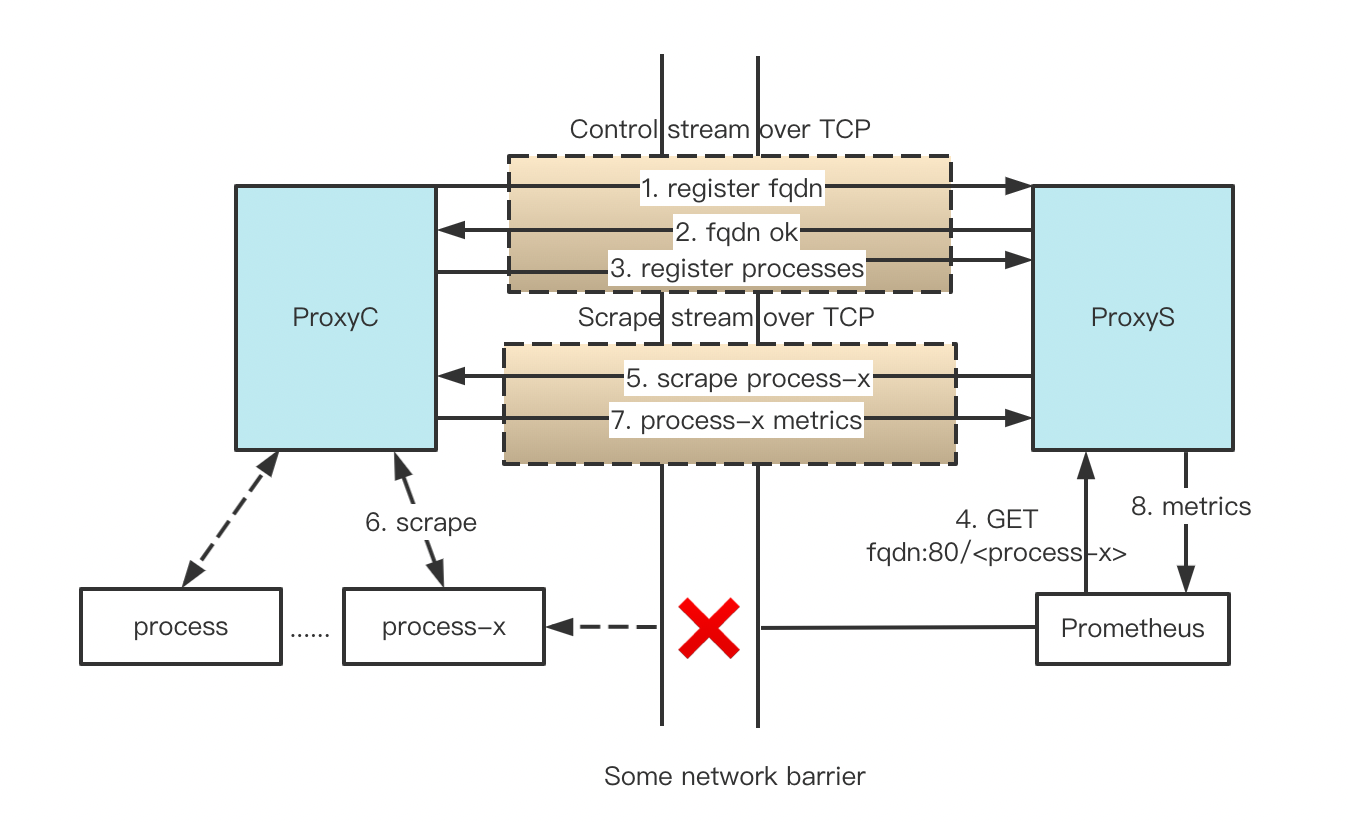
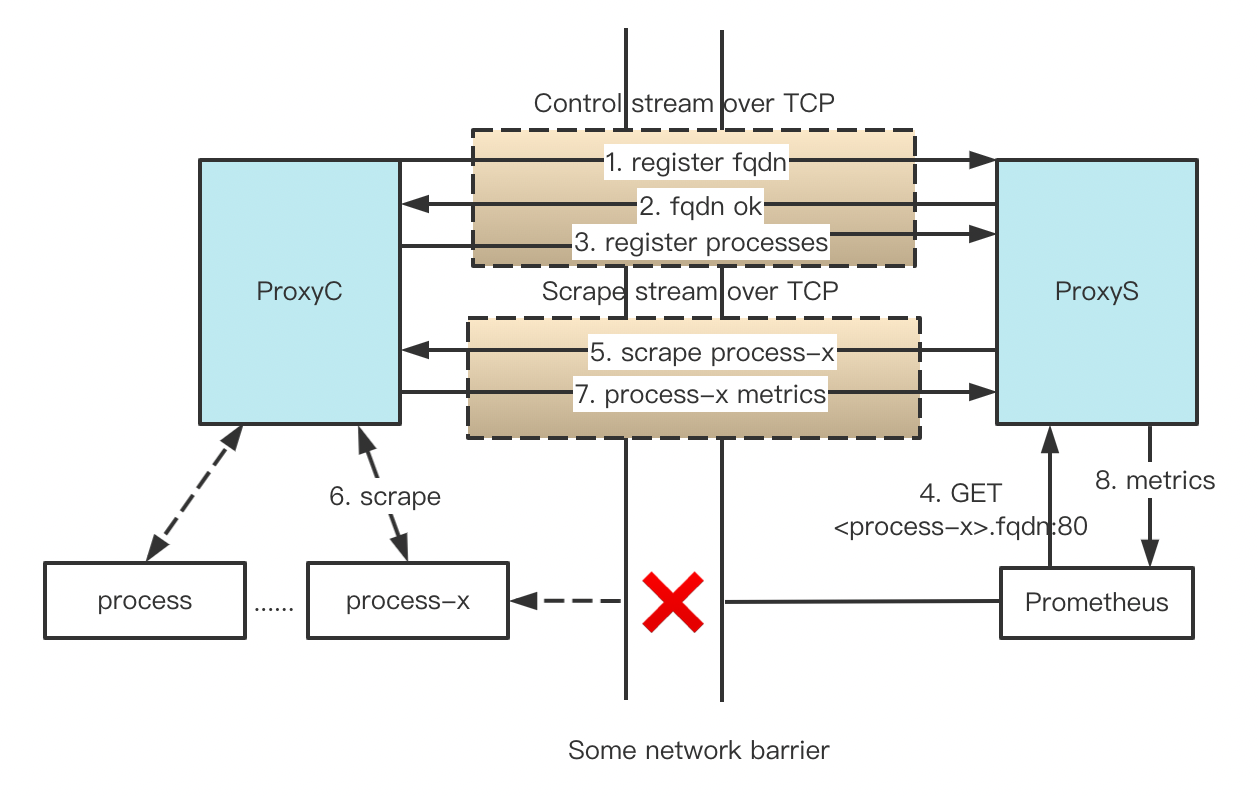
x

Changed region(s): [[0.031, 0.0603, 0.961, 0.8744], [0.434, 0.9347, 0.651, 0.9648], [0.217, 0.3618, 0.279, 0.4221]]

diff --git a/README.md b/README.md
@@ -33,7 +33,7 @@ Run the proxy somewhere both Prometheus and the clients can get to:
 
 On every target machine run the client, pointing it at the proxy:
 ```
-./pushprox-client  --fqdn client --proxy-addr 127.0.0.1:7080 --auth-token my-pwd --metrics http://127.0.0.1:8900/metrics,http://localhost:8900/metrics --label-pairs env=e2e-test,node=mac
+./pushprox-client  --fqdn client --proxy-addr 127.0.0.1:7080 --auth-token my-pwd --metrics http://127.0.0.1:8900/metrics,http://127.0.0.1:9100/metrics --label-pairs env=e2e-test,node=mac
 ```
 
 ## Service Discovery
@@ -47,13 +47,13 @@ $ curl -s 127.1:8080/targets | jq
 [
   {
     "targets": [
-      "client:80/MTI3LjAuMC4xOjg5MDAvbWV0cmljcw=="
+      "MTI3LjAuMC4xOjg5MDAvbWV0cmljcw==.client:80"
     ],
     "labels": null
   },
   {
     "targets": [
-      "client:80/bG9jYWxob3N0Ojg5MDAvbWV0cmljcw=="
+      "MTI3LjAuMC4xOjkxMDAvbWV0cmljcw==.mac.client:80"
     ],
     "labels": null
   }
@@ -69,7 +69,7 @@ scrape_configs:
 - job_name: node
   proxy_url: http://proxy:8080/
   static_configs:
-    - targets: ['client:80/MTI3LjAuMC4xOjg5MDAvbWV0cmljcw==']  # Presuming the FQDN of the client is "client", and process HTTP endpoint is  http://127.0.0.1:8900
+    - targets: ['MTI3LjAuMC4xOjkxMDAvbWV0cmljcw==.mac.client:80']  # Presuming the FQDN of the client is "client", and process HTTP endpoint is  http://127.0.0.1:8900
 ```
 
 ## How It Works
